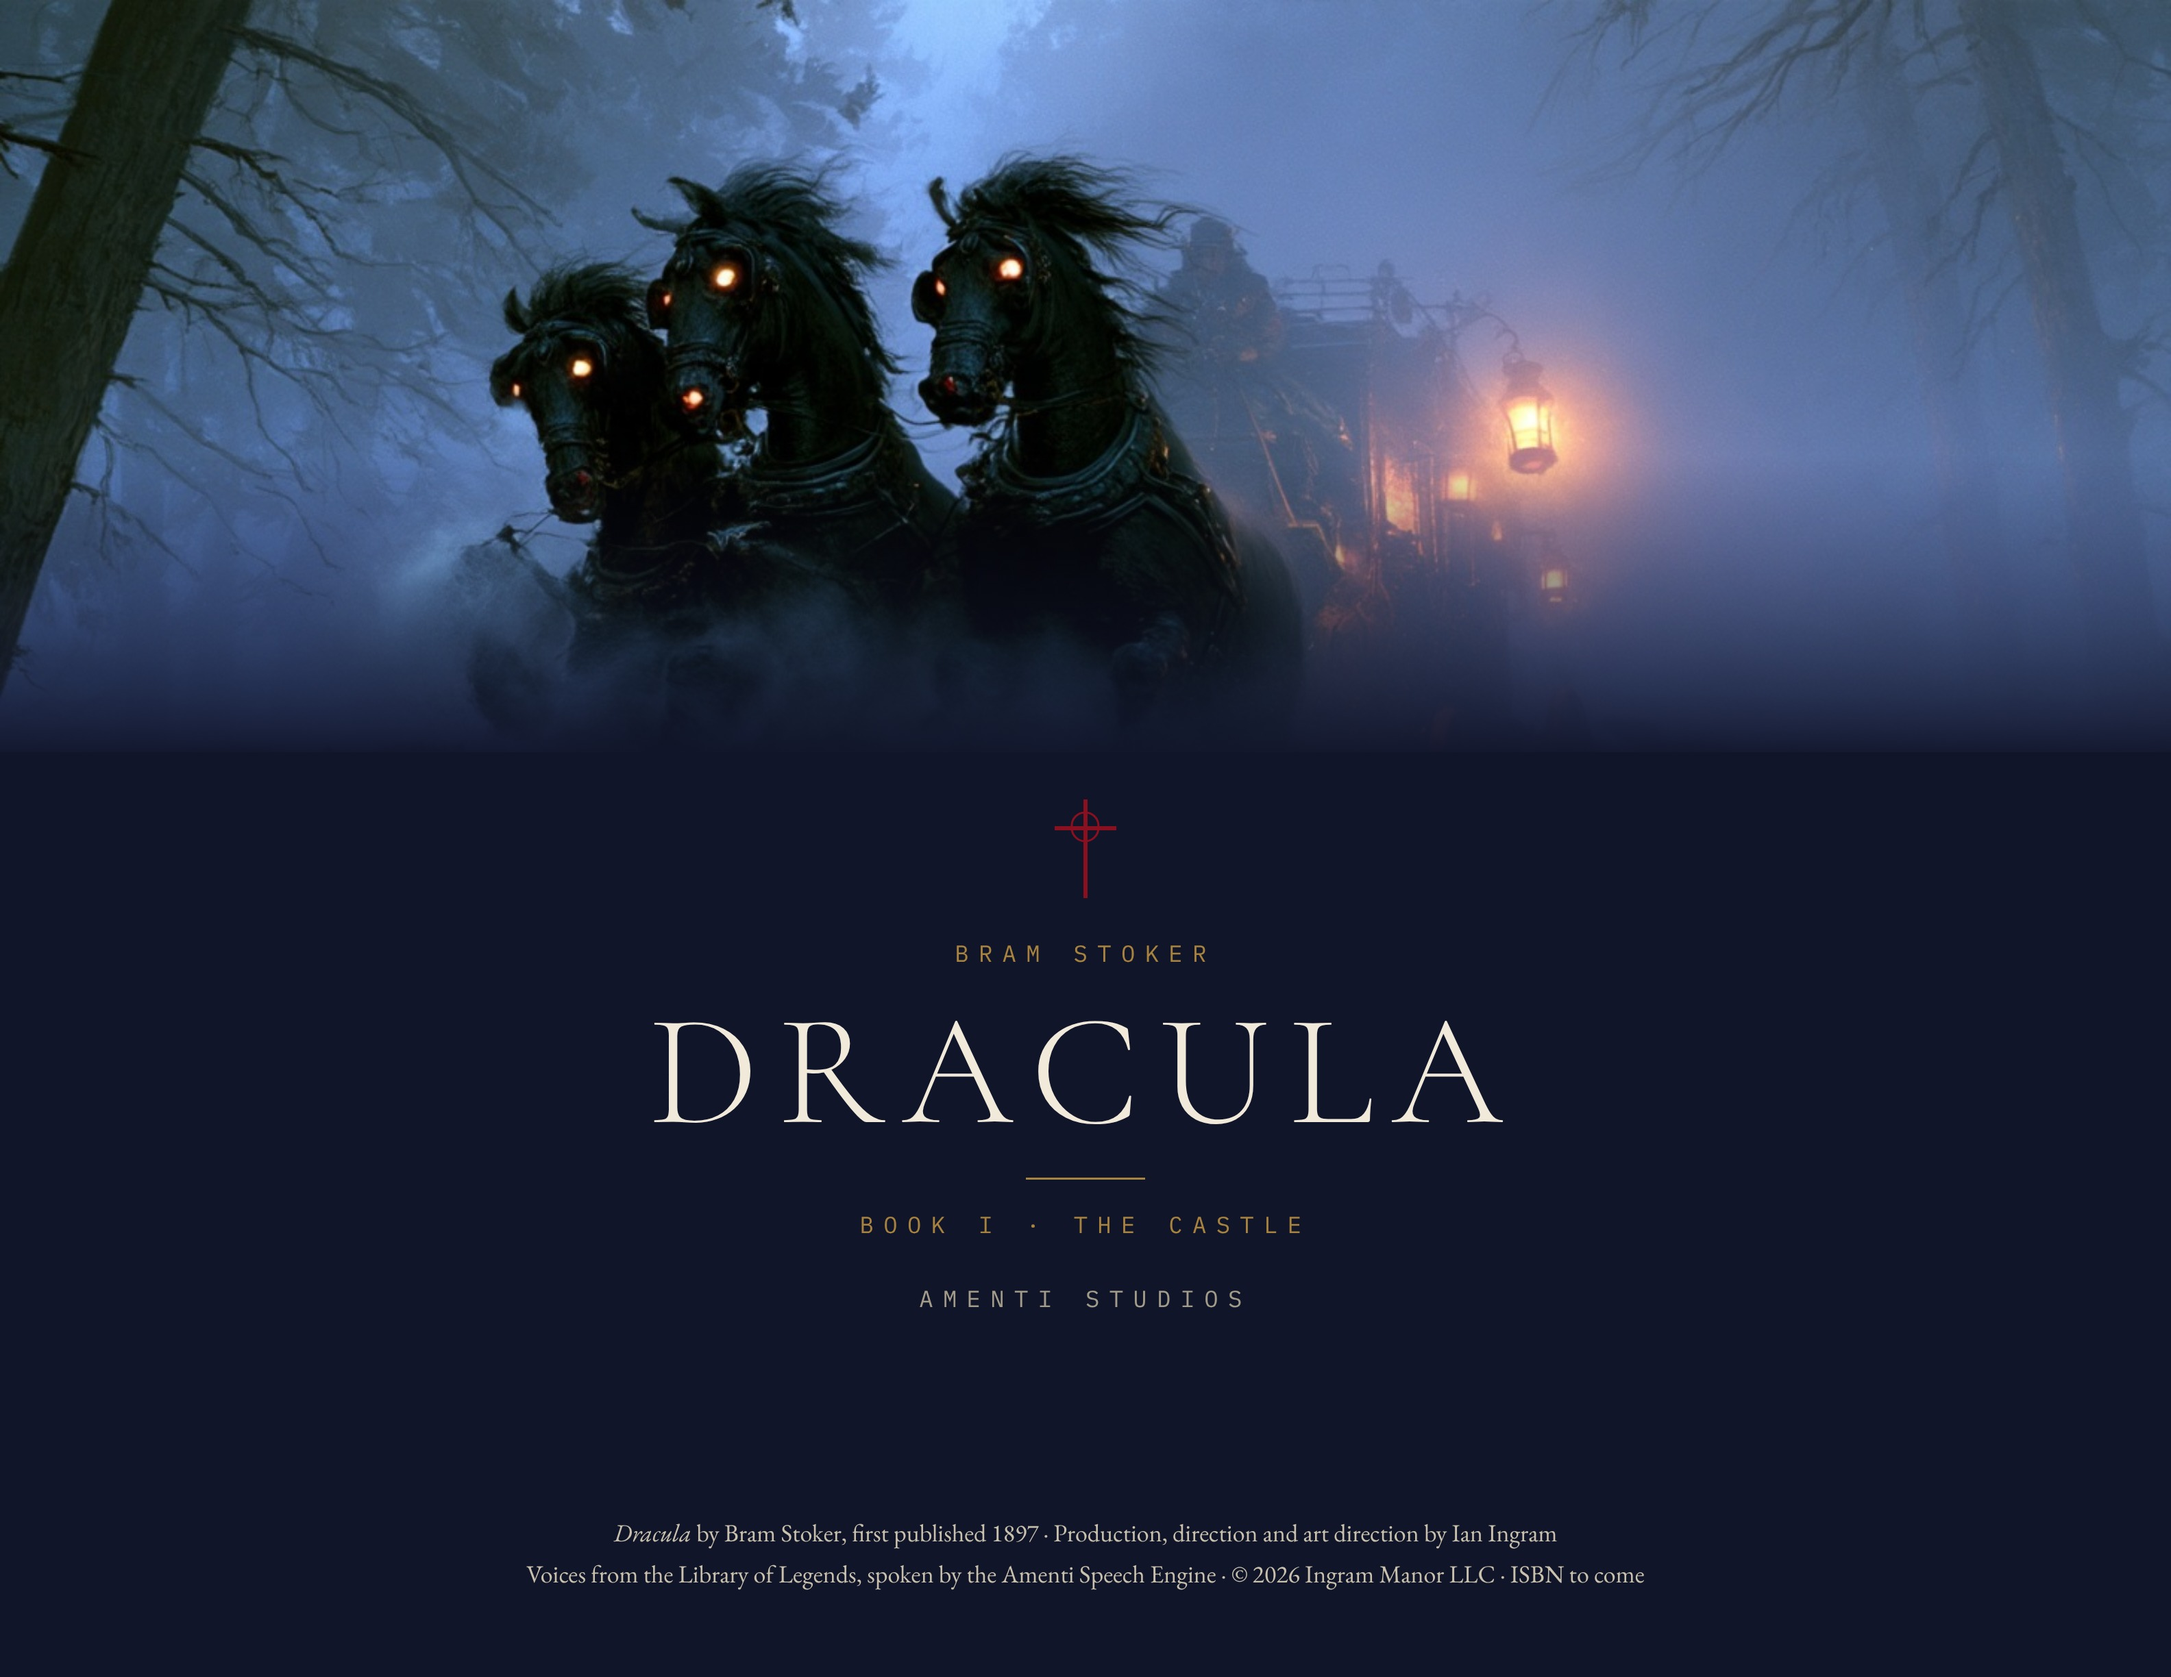
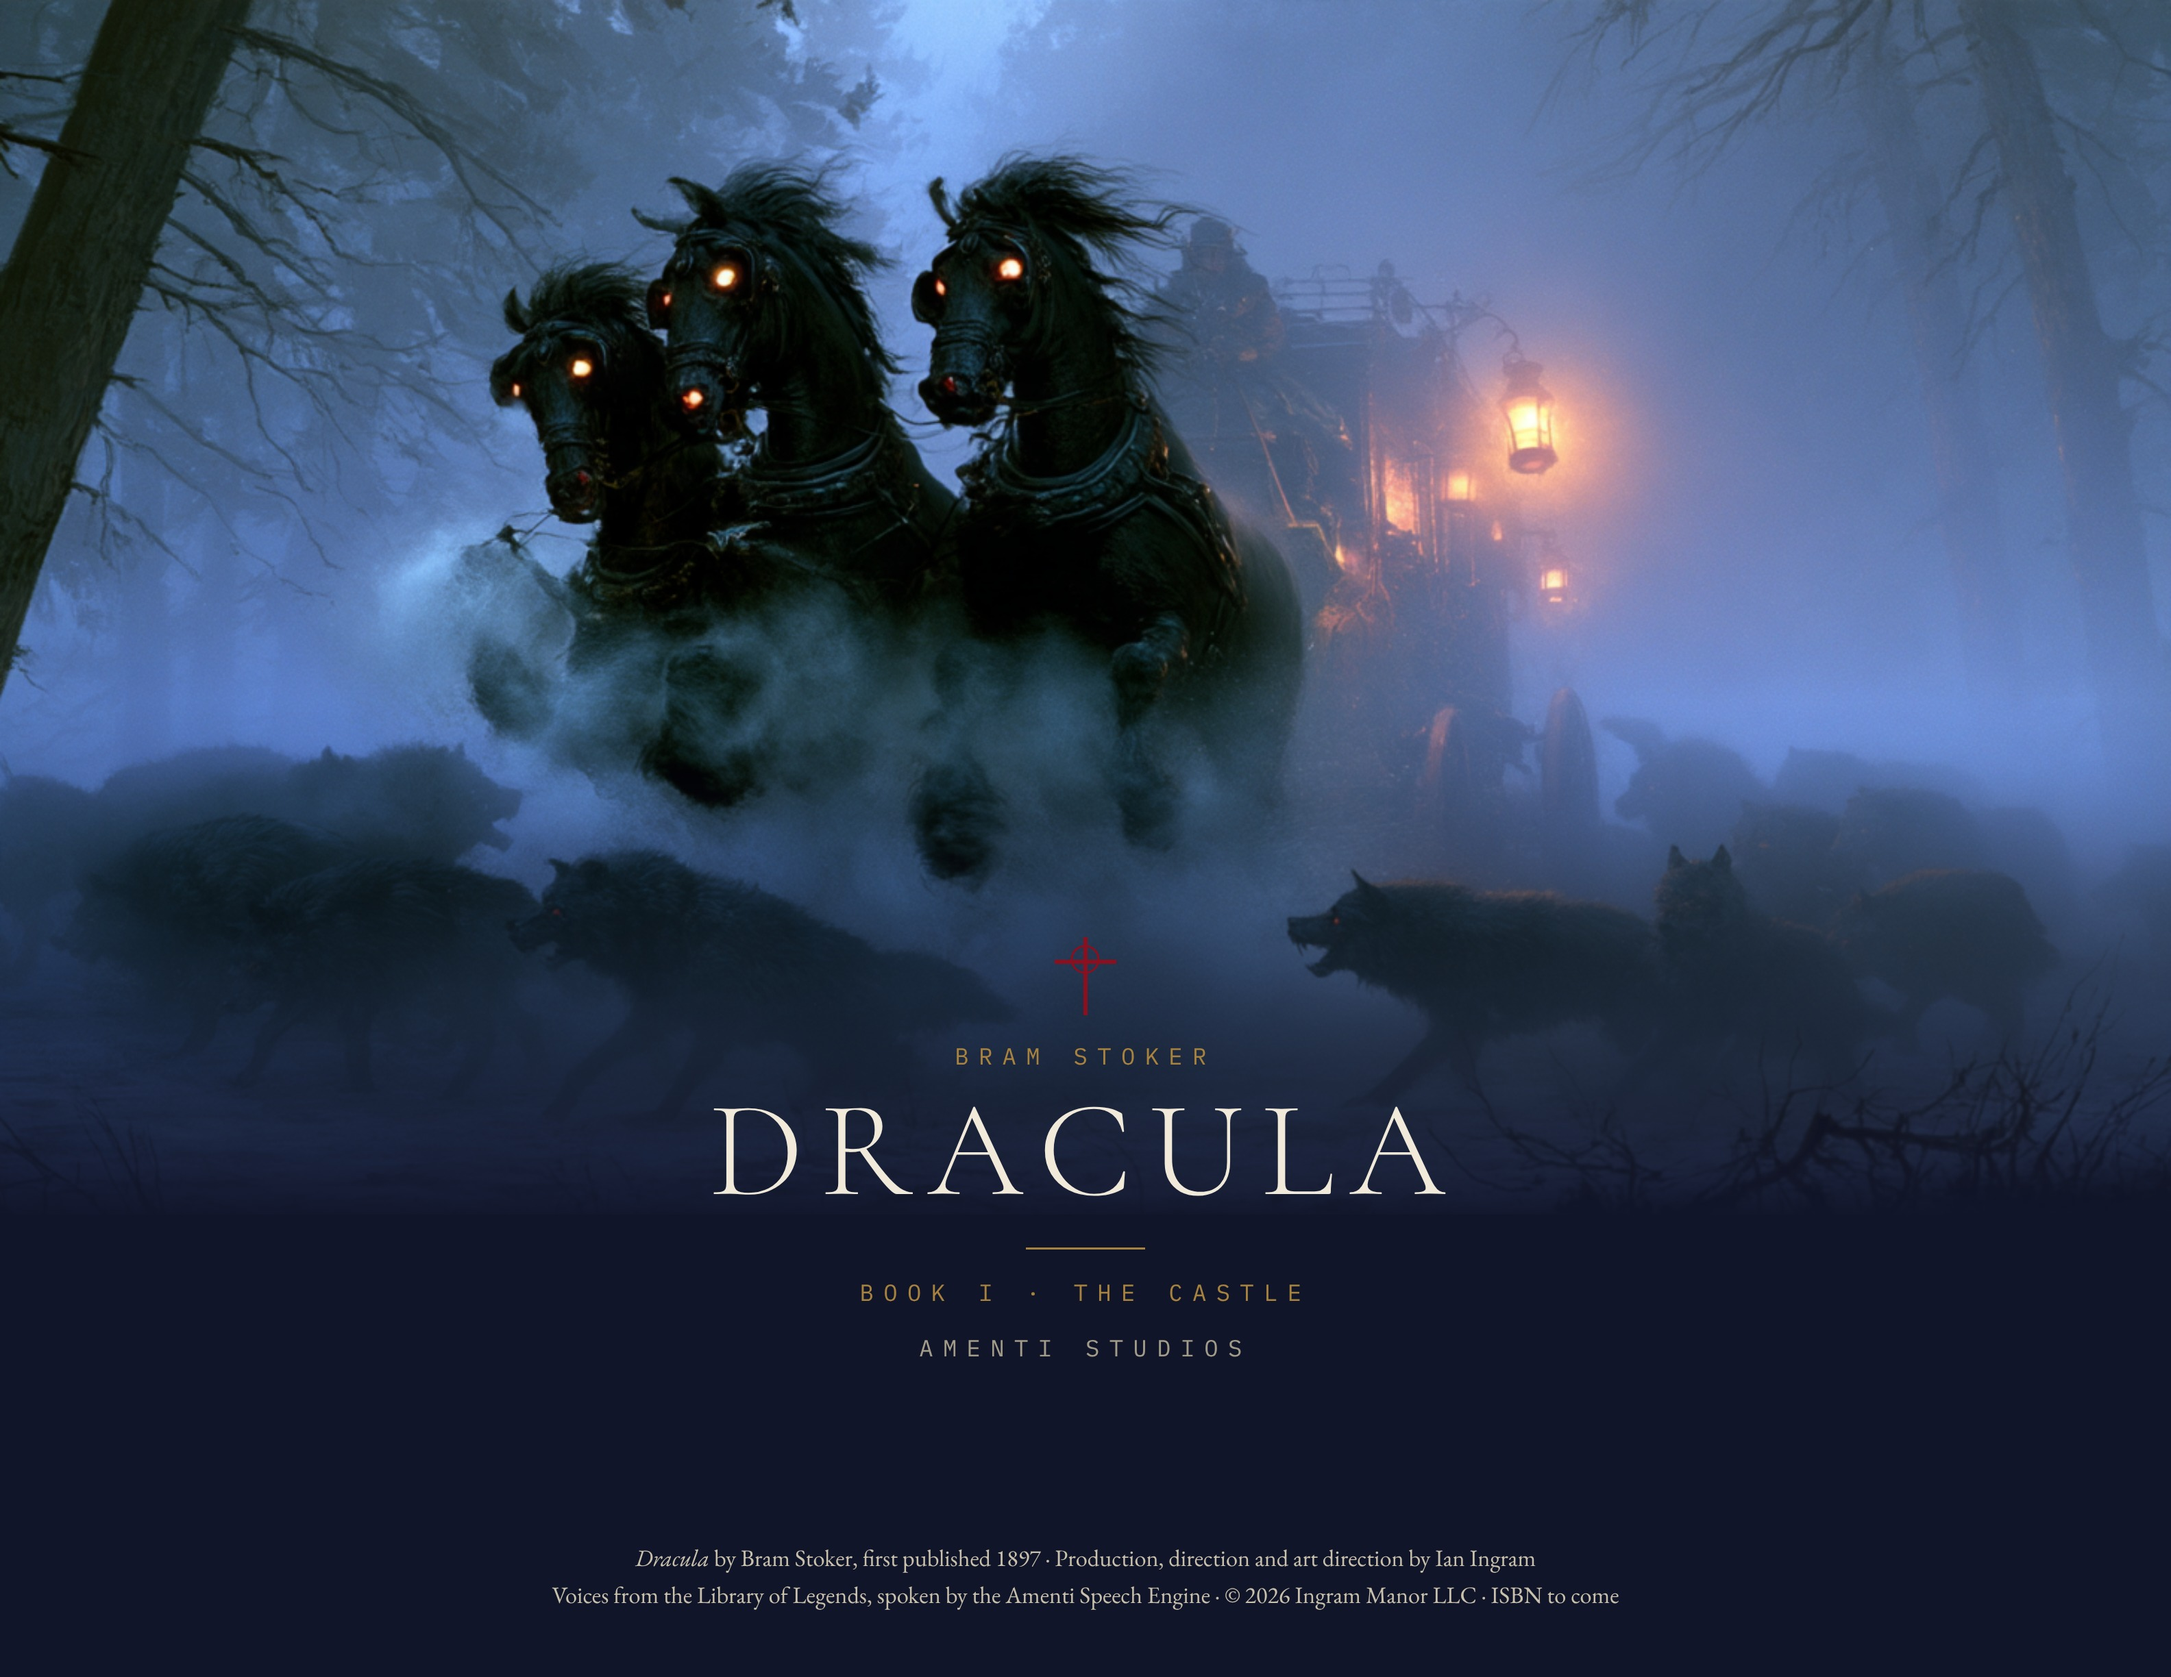
Book I print: title page shows most of the calèche painting, wolves faded under the title
Claude-Session: https://claude.ai/code/session_013VwDP7mPLrP4eYudhxc4u4

Changed region(s): [[0.0, 0.2794, 1.0, 0.7761], [0.25, 0.9003, 0.75, 0.9624], [0.4062, 0.7451, 0.4375, 0.7761]]

diff --git a/dracula/books/book-1/print/title-w3.html b/dracula/books/book-1/print/title-w3.html
@@ -1,0 +1,50 @@
+<!doctype html><html><head><meta charset="utf-8"><style>
+@font-face{font-family:G;src:url(node_modules/@fontsource/eb-garamond/files/eb-garamond-latin-400-normal.woff2)}
+@font-face{font-family:G;font-style:italic;src:url(node_modules/@fontsource/eb-garamond/files/eb-garamond-latin-400-italic.woff2)}
+@font-face{font-family:G;font-weight:600;src:url(node_modules/@fontsource/eb-garamond/files/eb-garamond-latin-500-normal.woff2)}
+@font-face{font-family:C;src:url(node_modules/@fontsource/cormorant-garamond/files/cormorant-garamond-latin-300-normal.woff2)}
+@font-face{font-family:M;src:url(node_modules/@fontsource/ibm-plex-mono/files/ibm-plex-mono-latin-400-normal.woff2)}
+@page{size:11in 8.5in;margin:0}
+:root{--ivory:#f5eee0;--ink:#2a2018;--gold:#a8823f;--red:#8a1020;--night:#141a2e}
+*{box-sizing:border-box}
+html,body{margin:0;background:#555}
+.pg{width:11in;height:8.5in;position:relative;overflow:hidden;background:var(--ivory);color:var(--ink);page-break-after:always;font:11.2pt/1.42 G;margin:0 auto}
+.night{background:var(--night);color:#e9e1d2}
+.flow{position:absolute;top:.95in;bottom:.9in;column-count:2;column-gap:.42in;column-fill:auto;overflow:hidden;hyphens:auto;text-align:justify}
+.L .flow{left:.75in;right:.95in}.R .flow{left:.95in;right:.75in}
+.flow p{margin:0;text-indent:1.3em}
+.flow p.first{text-indent:0}
+.flow p.cont{text-indent:0}
+.flow h2{font:300 22pt/1.1 C;letter-spacing:.04em;margin:.18in 0 .1in;text-align:left;column-span:none}
+.flow h3{font:italic 13pt G;margin:.12in 0 .04in}
+.flow img.inl{width:100%;display:block;margin:.08in 0 .1in;border-radius:1px}
+.flow img.orn{width:100%;display:block;margin:.12in 0 .04in}
+.flow ul{margin:.04in 0 .06in;padding-left:1.1em;text-align:left}
+.flow table{width:100%;border-collapse:collapse;font-size:10pt;margin:.06in 0 .1in;text-align:left}
+.flow td{padding:2px 0;border-bottom:1px solid #d9ccb3}.flow td:first-child{font-style:italic;padding-right:.15in}
+.rh{position:absolute;top:.48in;font:8pt M;letter-spacing:.32em;text-transform:uppercase;color:var(--gold)}
+.L .rh{left:.75in}.R .rh{right:.75in}
+.fo{position:absolute;bottom:.45in;font:9pt G;color:#7a6a55}.L .fo{left:.75in}.R .fo{right:.75in}
+.night .fo{color:#8d8aa0}
+.art{position:absolute;left:0;right:0;top:.95in;height:6.19in;background:center/cover no-repeat}
+.cap{position:absolute;left:0;right:0;bottom:.5in;text-align:center;font:italic 11pt G;color:#b9ad95;padding:0 1.4in}
+.bleed{position:absolute;inset:0;background:center/cover no-repeat}
+.ttl{position:absolute;inset:0;display:flex;flex-direction:column;align-items:center;justify-content:center;text-align:center}
+.k{font:8.5pt M;letter-spacing:.42em;text-transform:uppercase;color:var(--gold)}
+.big{font:300 76pt/1 C;letter-spacing:.12em;margin:.18in 0}
+.rule{width:.6in;height:1px;background:var(--gold);margin:.2in auto}
+.cross{width:.32in;height:.5in;position:relative;margin:0 auto .2in}
+.cross:before{content:"";position:absolute;left:50%;top:0;width:2px;height:100%;background:var(--red);transform:translateX(-50%)}
+.cross:after{content:"";position:absolute;left:0;top:28%;width:100%;height:2px;background:var(--red)}
+.cross i{position:absolute;left:50%;top:28%;width:.15in;height:.15in;border:1.6px solid var(--red);border-radius:50%;transform:translate(-50%,-50%)}
+.opener{position:absolute;left:.95in;right:.75in;top:.75in;height:2.55in}
+.opener .num{font:300 64pt/1 C;margin:.06in 0}
+.dc{float:left;font:300 52pt/0.8 C;margin:.06in .08in 0 0;color:var(--red)}
+.qr{position:absolute;right:.75in;top:.8in;width:1.05in;text-align:center;font:7pt M;letter-spacing:.2em;color:var(--gold);text-transform:uppercase}
+.qr img{width:1.05in;height:1.05in;display:block;margin-bottom:.05in}
+</style></head><body style="margin:0;background:#000"><div class="pg night R" style="margin:0;background:#11152a">
+<div style="position:absolute;left:0;right:0;top:0;height:6.16in;background:url(title-wolves.png) center top/100% auto no-repeat"></div>
+<div style="position:absolute;left:0;right:0;top:3.55in;height:2.65in;background:linear-gradient(180deg,rgba(17,21,42,0),#11152a)"></div>
+<div style="position:absolute;left:0;right:0;top:4.75in;text-align:center;color:#efe7d8"><div class="cross" style="height:.4in;margin-bottom:.12in"><i></i></div><div class="k">Bram Stoker</div><div class="big" style="color:#f1e9da;font-size:50pt;letter-spacing:.12em;margin:.06in 0">DRACULA</div><div class="rule" style="margin:.14in auto"></div><div class="k">Book I · The Castle</div><div style="height:.12in"></div><div class="k" style="color:#a39c8a">Amenti Studios</div></div>
+<div style="position:absolute;left:0;right:0;bottom:.32in;text-align:center;font:8.6pt/1.6 G;color:#c9c1ae"><i>Dracula</i> by Bram Stoker, first published 1897 · Production, direction and art direction by Ian Ingram<br>Voices from the Library of Legends, spoken by the Amenti Speech Engine · © 2026 Ingram Manor LLC · ISBN to come</div>
+</div><script>document.fonts.ready.then(()=>document.title='done')</script></body></html>

diff --git a/dracula/books/book-1/print/shot5.js b/dracula/books/book-1/print/shot5.js
@@ -1,0 +1,3 @@
+const {chromium}=require('playwright');(async()=>{const b=await chromium.launch();const p=await b.newPage({viewport:{width:1056,height:816},deviceScaleFactor:3});
+await p.goto('file:///tmp/claude-0/print/title-w3.html');await p.waitForFunction(()=>document.title==='done');await p.waitForTimeout(800);
+await (await p.$('.pg')).screenshot({path:'/tmp/claude-0/print/title-flat-w3.png'});await b.close()})()
